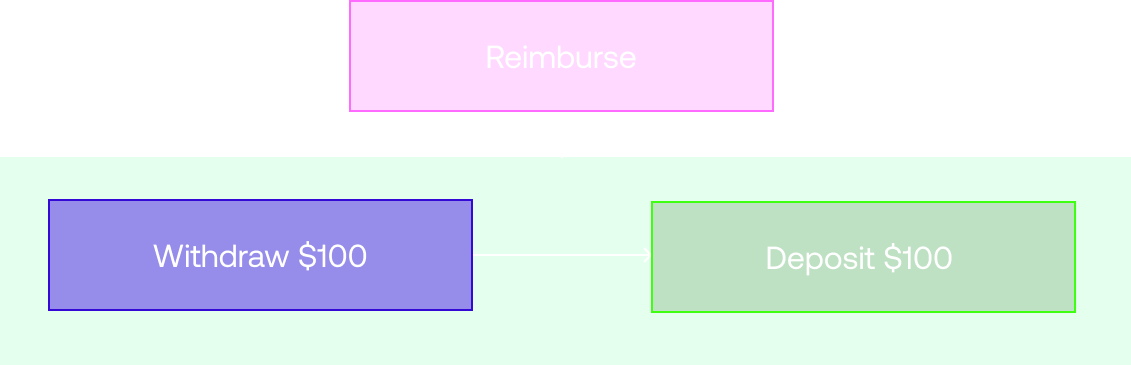
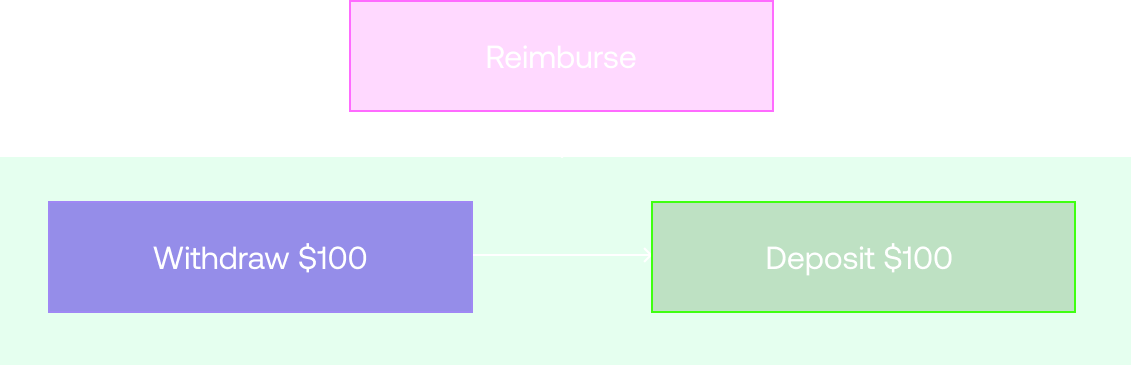
move tip, update diagram with light + dark mode, add theme aware background for diagram, simplify worker intro text, java note spacing

Changed region(s): [[0.1238, 0.663, 0.3404, 0.7534], [0.0309, 0.8438, 0.4332, 0.874], [0.0309, 0.5425, 0.4332, 0.5726]]

diff --git a/src/css/custom.css b/src/css/custom.css
@@ -47,11 +47,16 @@ html[data-theme='dark']:root {
   --alert--competency-background: #00474a;
   --alert--copycode-background: #29005e;
   --alert--info-background: #353536;
-  --feedback-primary-color: #fff; /* title on button AND submit button color*/
-  --feedback-light-color: #fff; /* text entry field color */
-  --feedback-dark-color: #ccc; /* overall backsplash color */
-  --feedback-text-color: #444; /* helpful and powered-by */
-  --feedback-white-color: #000; /* other text colors AND main-page button background color */
+  --feedback-primary-color: #fff;
+  /* title on button AND submit button color*/
+  --feedback-light-color: #fff;
+  /* text entry field color */
+  --feedback-dark-color: #ccc;
+  /* overall backsplash color */
+  --feedback-text-color: #444;
+  /* helpful and powered-by */
+  --feedback-white-color: #000;
+  /* other text colors AND main-page button background color */
   /* --ifm-menu-color-active: var(--ifm-color-primary-lighter);
   --ifm-navbar-link-hover-color: var(--ifm-color-primary-lighter);
   --ifm-toc-link-color: #ffffff;
@@ -318,26 +323,25 @@ main.p-6,
   box-shadow: var(--tw-ring-offset-shadow, 0 0 #0000), var(--tw-ring-shadow, 0 0 #0000), var(--tw-shadow);
 }
 
-.tailwindcss .space-x-3 > :not([hidden]) ~ :not([hidden]) {
+.tailwindcss .space-x-3> :not([hidden])~ :not([hidden]) {
   --tw-space-x-reverse: 0;
   margin-left: calc(0.75rem * (1 - var(--tw-space-x-reverse)));
   margin-right: calc(0.75rem * var(--tw-space-x-reverse));
 }
 
-.tailwindcss .space-x-4 > :not([hidden]) ~ :not([hidden]) {
+.tailwindcss .space-x-4> :not([hidden])~ :not([hidden]) {
   --tw-space-x-reverse: 0;
   margin-left: calc(1rem * (1 - var(--tw-space-x-reverse)));
   margin-right: calc(1rem * var(--tw-space-x-reverse));
 }
 
-.tailwindcss .space-y-3 > :not([hidden]) ~ :not([hidden]) {
+.tailwindcss .space-y-3> :not([hidden])~ :not([hidden]) {
   --tw-space-y-reverse: 0;
   margin-bottom: calc(0.75rem * var(--tw-space-y-reverse));
   margin-top: calc(0.75rem * (1 - var(--tw-space-y-reverse)));
 }
 
-.tailwindcss p {
-}
+.tailwindcss p {}
 
 main.max-w-screen-lg {
   max-width: 1024px;
@@ -536,7 +540,7 @@ h3 {
   line-height: 1.25em;
 }
 
-.landing-card-list li + li {
+.landing-card-list li+li {
   margin-top: 0;
 }
 
@@ -1000,6 +1004,7 @@ h3 {
   .deployment {
     display: flex;
   }
+
   .second-row-container {
     display: flex;
   }
@@ -1109,7 +1114,8 @@ h3 {
 }
 
 tdiiw img {
-  object-fit: contain; /* ensures the image maintains its aspect ratio */
+  object-fit: contain;
+  /* ensures the image maintains its aspect ratio */
 }
 
 .tdi {
@@ -1182,10 +1188,12 @@ code {
 
 .copycode-notice-container a {
   color: #000000 !important;
-  margin-right: 5px; /* Add space between the link and the text */
+  margin-right: 5px;
+  /* Add space between the link and the text */
 }
 
 @keyframes bounce {
+
   0%,
   20%,
   50%,
@@ -1193,9 +1201,11 @@ code {
   100% {
     transform: translateY(0);
   }
+
   40% {
     transform: translateY(-30px);
   }
+
   60% {
     transform: translateY(-15px);
   }
@@ -1359,13 +1369,11 @@ code {
   width: 40px;
 }
 
-/* Make comments visible on highlighted code lines */
-.theme-code-block-highlighted-line .token.comment {
-  color: #89e5c3 !important; /* Light green that contrasts with the green highlight background */
-  font-style: italic;
+/* Temporal app diagram background - theme aware */
+.temporal-app-diagram-bg {
+  background: rgba(99, 102, 241, 0.1);
 }
 
-/* For light theme, use a different color */
-html[data-theme='light'] .theme-code-block-highlighted-line .token.comment {
-  color: #8adfa7 !important; /* Darker green for light mode */
+html[data-theme='light'] .temporal-app-diagram-bg {
+  background: rgba(0, 0, 0, 0.03);
 }
